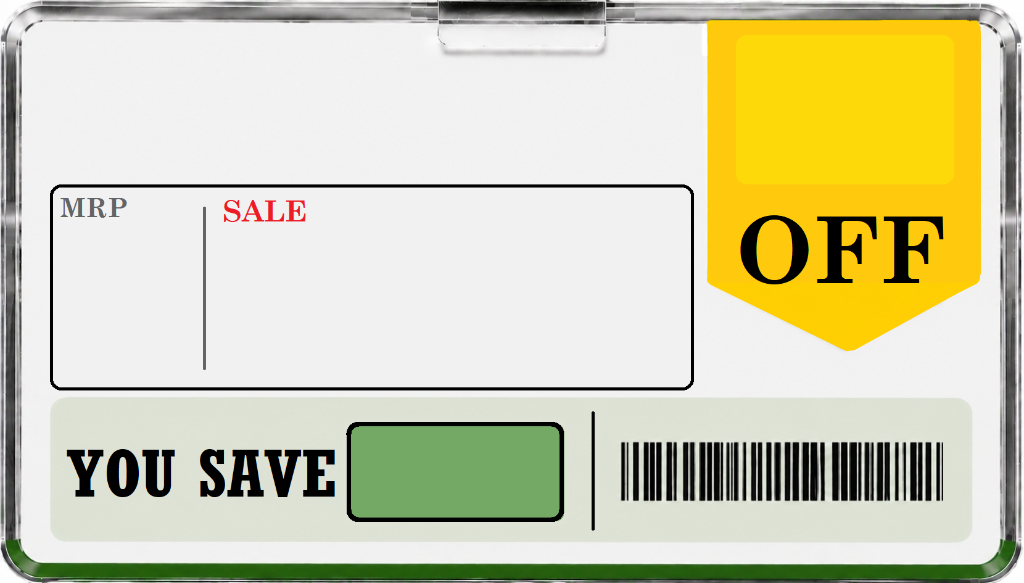
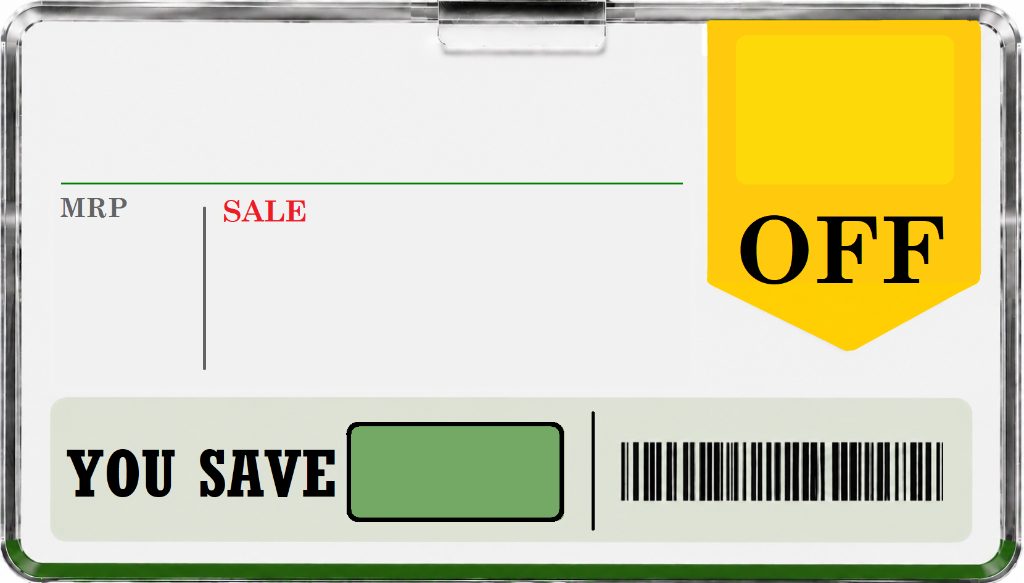
Fix: Replace template images with latest uploaded pictures and shift sale price left by 5% (Build 202608141458)

Changed region(s): [[0.0312, 0.6484, 0.6875, 0.6792], [0.0312, 0.3087, 0.6875, 0.3396]]

diff --git a/frontend/customer/js/build-env.js b/frontend/customer/js/build-env.js
@@ -1,10 +1,10 @@
 // Automatically generated build metadata
 window.APP_BUILD = {
   version: "0.1.0",
-  build: "202608132241",
-  commit: "30cdb28",
+  build: "202608141458",
+  commit: "2c791c7",
   branch: "main",
-  buildTime: "2026-08-13T22:41:16.664Z",
+  buildTime: "2026-08-14T14:58:04.121Z",
   environment: "production",
   serviceWorkerEnabled: true
 };

diff --git a/frontend/customer/index.html b/frontend/customer/index.html
@@ -11,7 +11,7 @@
   <!-- html5-qrcode library for barcode camera decoding -->
   <script src="js/libs/html5-qrcode.min.js"></script>
   <script src="js/scanner.js"></script>
-  <script>window.HTML_BUILD = "202608132241";</script>
+  <script>window.HTML_BUILD = "202608141458";</script>
 </head>
 <body>
   <div class="app-shell">

diff --git a/frontend/customer/css/scanner-v2.css b/frontend/customer/css/scanner-v2.css
@@ -529,7 +529,7 @@
 .esl-sale-block {
   position: absolute;
   top: 34.25%;
-  left: 19.73%;
+  left: 14.73%;
   width: 73.05%;
   height: 37.50%;
   font-family: 'Outfit', -apple-system, BlinkMacSystemFont, sans-serif;

diff --git a/frontend/customer/sw.js b/frontend/customer/sw.js
@@ -1,4 +1,4 @@
-const CACHE_NAME = '78pricecheck-202608132241';
+const CACHE_NAME = '78pricecheck-202608141458';
 const ASSETS_TO_CACHE = [
   './',
   './index.html',
